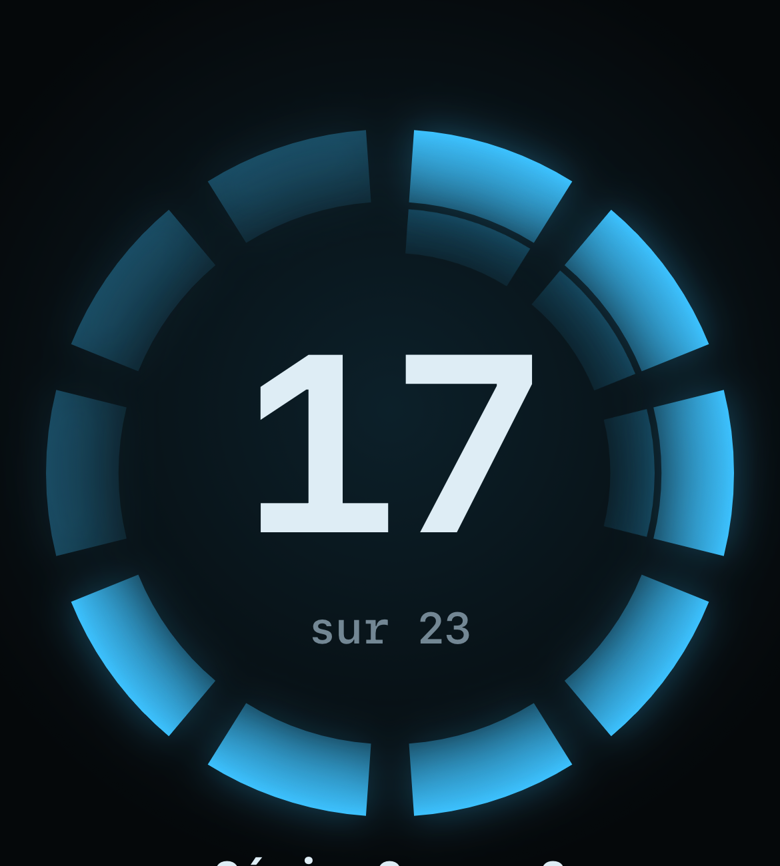
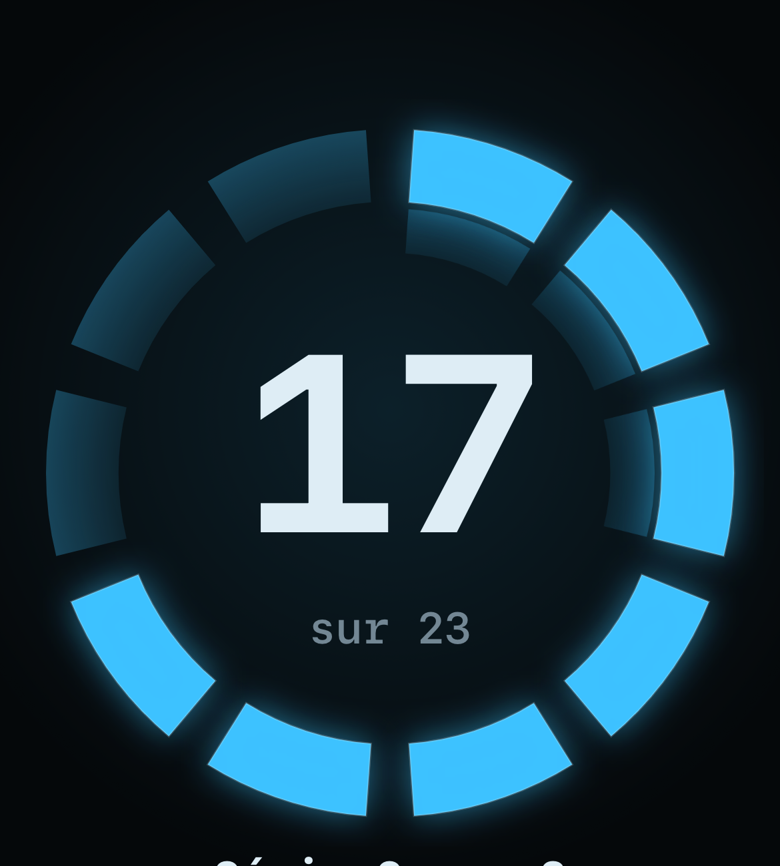
Nouveautés : avant / après du tunnel lumineux, du repos, de la part de cible et du record
Claude-Session: https://claude.ai/code/session_01EFvPKjPeTBs4MFfCE2jzQT

Changed region(s): [[0.7077, 0.2494, 0.9538, 0.8418], [0.0923, 0.6547, 0.7385, 0.9353], [0.5231, 0.1559, 0.7385, 0.2806]]

diff --git a/Design/Nouveautes/index.html b/Design/Nouveautes/index.html
@@ -59,10 +59,10 @@ textarea { width: 100%; box-sizing: border-box; min-height: 44px; resize: vertic
       <p>Tunnel, repos, fin de séance, record.</p>
     </div>
       <article class="change">
-        <header><p class="where">Pendant la série</p><h3>Le tunnel en perspective : les segments sont des tuiles sur la paroi, leurs bords fuient vers le centre ; l'anneau suivant, plus sombre, montre ce qui reste jusqu'à la cible.</h3></header>
+        <header><p class="where">Pendant la série</p><h3>Le tunnel en perspective : les segments sont des tuiles sur la paroi, leurs bords fuient vers le centre. Allumé, un segment émet (uniforme, avec un halo) ; éteint, il ne fait que réfléchir (dégradé, sans halo).</h3></header>
         <div class="pair">
-          <figure><figcaption>Avant</figcaption><img src="2026-11-01d/21-tunnel-avant.png" alt="Avant : Le tunnel en perspective : les segments sont des tuiles sur la paroi, leurs bords fuient vers le centre ; l'anneau suivant, plus sombre, montre ce qui reste jusqu'à la cible." loading="lazy"></figure>
-          <figure class="after"><figcaption>Après</figcaption><img src="2026-11-01d/21-tunnel-apres.png" alt="Après : Le tunnel en perspective : les segments sont des tuiles sur la paroi, leurs bords fuient vers le centre ; l'anneau suivant, plus sombre, montre ce qui reste jusqu'à la cible." loading="lazy"></figure>
+          <figure><figcaption>Avant</figcaption><img src="2026-11-01d/21-tunnel-avant.png" alt="Avant : Le tunnel en perspective : les segments sont des tuiles sur la paroi, leurs bords fuient vers le centre. Allumé, un segment émet (uniforme, avec un halo) ; éteint, il ne fait que réfléchir (dégradé, sans halo)." loading="lazy"></figure>
+          <figure class="after"><figcaption>Après</figcaption><img src="2026-11-01d/21-tunnel-apres.png" alt="Après : Le tunnel en perspective : les segments sont des tuiles sur la paroi, leurs bords fuient vers le centre. Allumé, un segment émet (uniforme, avec un halo) ; éteint, il ne fait que réfléchir (dégradé, sans halo)." loading="lazy"></figure>
         </div>
         <div class="avis" data-id="2026-11-01d-21-tunnel">
           <div class="choices" role="group" aria-label="Ton avis">
